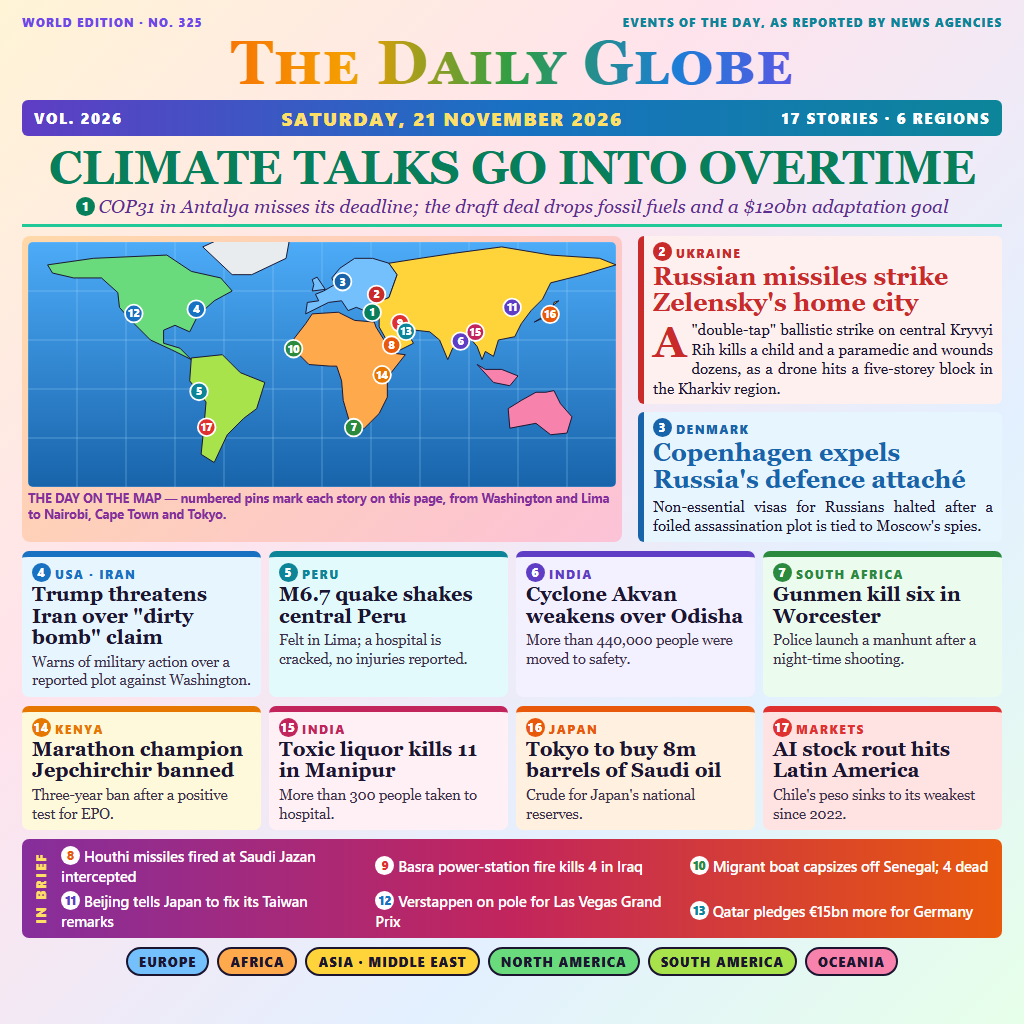
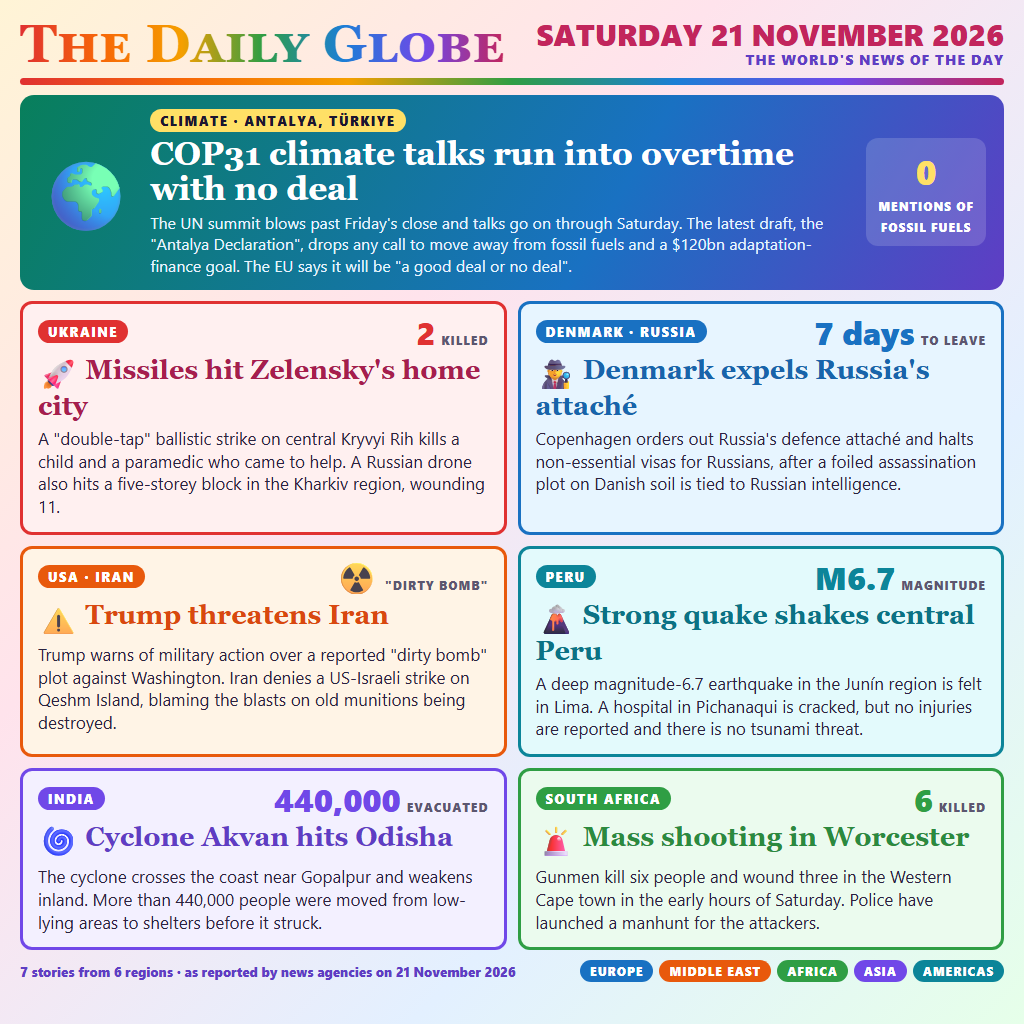
Colourful edition with seven fuller stories and key figures

diff --git a/src/page.html b/src/page.html
@@ -3,119 +3,102 @@
 <style>
 *{box-sizing:border-box;margin:0;padding:0}
 html,body{width:1024px;height:1024px;overflow:hidden}
-body{color:#1b1530;font-family:Georgia,"Times New Roman",serif;padding:14px 22px 0;
+body{color:#1b1530;font-family:"Segoe UI",Arial,sans-serif;padding:16px 20px 0;
   background:linear-gradient(135deg,#fff4d6 0%,#ffe3ec 35%,#e3f0ff 70%,#e6ffe9 100%)}
-.ears{display:flex;justify-content:space-between;font:800 12px "Segoe UI",Arial,sans-serif;letter-spacing:1px;text-transform:uppercase}
-.ears span:first-child{color:#7048e8}.ears span:last-child{color:#0c8599}
-.mast{text-align:center;font-weight:700;font-size:70px;letter-spacing:1px;line-height:1;margin-top:2px;font-variant:small-caps;font-size:62px;
+header{display:flex;justify-content:space-between;align-items:center}
+.mast{font-family:Georgia,"Times New Roman",serif;font-weight:700;font-size:54px;line-height:1;font-variant:small-caps;letter-spacing:.5px;
   background:linear-gradient(90deg,#e03131,#f76707,#f59f00,#2f9e44,#1c7ed6,#7048e8,#c2255c);-webkit-background-clip:text;background-clip:text;color:transparent}
-.dateline{margin-top:6px;border-radius:6px;display:flex;justify-content:space-between;align-items:center;padding:5px 12px;font:800 15px "Segoe UI",Arial,sans-serif;letter-spacing:1.5px;text-transform:uppercase;color:#fff;
-  background:linear-gradient(90deg,#5f3dc4,#1971c2,#0c8599)}
-.dateline .d{color:#ffe066;font-size:19px}
-.banner{margin-top:8px;font-weight:700;font-size:47px;line-height:1.02;letter-spacing:-.5px;text-align:center;color:#087f5b}
-.deck{text-align:center;font-style:italic;font-size:19px;color:#5c2d91;margin-top:4px;padding-bottom:7px;border-bottom:3px solid #20c997}
-.row{display:grid;grid-template-columns:600px 1fr;gap:16px;margin-top:9px}
-figure{border-radius:8px;background:linear-gradient(135deg,#ffd8a8,#fcc2d7);padding:6px}
-figure svg{display:block;width:100%;height:auto;border-radius:5px}
-figcaption{font:700 12.5px "Segoe UI",Arial,sans-serif;color:#862e9c;margin-top:4px;line-height:1.25}
-.side h2{font-size:25px;line-height:1.05;font-weight:700;color:var(--c)}
-.side .blk{--c:#c92a2a;background:#fff0f0;border-left:6px solid var(--c);border-radius:6px;padding:6px 9px}
-.side .blk+.blk{--c:#1864ab;background:#e7f5ff;margin-top:8px}
-.kicker{font:900 12px "Segoe UI",Arial,sans-serif;letter-spacing:1.5px;text-transform:uppercase;color:var(--c);display:block;margin-bottom:2px}
-.side p{font-size:15px;line-height:1.3;margin-top:5px;text-align:justify}
-.side .blk:first-child p::first-letter{float:left;font-size:44px;line-height:.9;font-weight:700;margin:3px 5px 0 0;color:#c92a2a}
-.n{display:inline-flex;align-items:center;justify-content:center;width:19px;height:19px;border-radius:50%;background:var(--c,#c92a2a);color:#fff;font:800 11.5px "Segoe UI",Arial,sans-serif;vertical-align:2px;margin-right:4px}
-.cols{display:grid;grid-template-columns:repeat(4,1fr);gap:8px;margin-top:9px}
-.story{padding:6px 10px 7px;border-radius:7px;border-top:6px solid var(--c);background:var(--t)}
-.story h3{font-size:20px;line-height:1.08;font-weight:700;color:#1b1530}
-.story p{font-size:14.5px;line-height:1.28;margin-top:4px;color:#3b2f4a}
-.brief{border-radius:7px;margin-top:9px;padding:7px 10px;display:grid;grid-template-columns:auto 1fr 1fr 1fr;gap:5px 12px;font:600 14.5px "Segoe UI",Arial,sans-serif;align-items:center;color:#fff;
-  background:linear-gradient(90deg,#862e9c,#c2255c,#e8590c)}
-.brief b.h{grid-row:1/3;grid-column:1;font:900 13px "Segoe UI",Arial,sans-serif;letter-spacing:2px;writing-mode:vertical-rl;transform:rotate(180deg);color:#ffe066}
-.brief .n{background:#fff;color:var(--c)}
-.legend{margin-top:9px;display:flex;justify-content:center;gap:8px;font:800 13px "Segoe UI",Arial,sans-serif;letter-spacing:1px;text-transform:uppercase}
-.legend span{padding:4px 11px;border-radius:20px;color:#1b1530;border:2px solid #1b1530}
-.red{--c:#e03131;--t:#ffe3e3}.ora{--c:#e8590c;--t:#fff0e0}.yel{--c:#e67700;--t:#fff9db}.grn{--c:#2b8a3e;--t:#ebfbee}
-.tea{--c:#0c8599;--t:#e3fafc}.blu{--c:#1971c2;--t:#e7f5ff}.ind{--c:#5f3dc4;--t:#f3f0ff}.pin{--c:#c2255c;--t:#fff0f6}
+.date{text-align:right;font-weight:900;font-size:30px;line-height:1;color:#c2255c}
+.date small{display:block;font-size:14px;color:#5f3dc4;font-weight:800;letter-spacing:1px;text-transform:uppercase;margin-top:4px}
+.bar{height:7px;border-radius:4px;margin-top:8px;background:linear-gradient(90deg,#e03131,#f76707,#f59f00,#2f9e44,#1c7ed6,#7048e8,#c2255c)}
+.card{border-radius:12px;padding:12px 15px 14px;background:var(--t);border:3px solid var(--c);display:grid;grid-template-columns:1fr auto;column-gap:10px;align-content:start}
+.kick{display:inline-block;font-weight:900;font-size:13px;letter-spacing:1.5px;text-transform:uppercase;color:#fff;background:var(--c);padding:3px 10px;border-radius:20px}
+.card .kick{grid-column:1;grid-row:1;justify-self:start;align-self:center}
+.card h2{grid-column:1/3;font-family:Georgia,"Times New Roman",serif;font-size:27px;line-height:1.08;margin-top:7px;color:var(--d)}
+.card p{grid-column:1/3;font-size:17px;line-height:1.33;margin-top:7px;color:#2b2240}
+.big{grid-column:2;grid-row:1;display:flex;align-items:baseline;gap:6px;font-weight:900;color:var(--c);line-height:1}
+.big b{font-size:32px}
+.big i{font-style:normal;font-size:12px;letter-spacing:1px;text-transform:uppercase;color:#5c5670}
+.lead{margin-top:10px;display:grid;grid-template-columns:auto 1fr auto;gap:16px;align-items:center;border-radius:14px;padding:14px 18px;color:#fff;
+  background:linear-gradient(120deg,#087f5b,#1971c2 60%,#5f3dc4)}
+.lead .ic{font-size:70px;line-height:1}
+.lead .kick{background:#ffe066;color:#1b1530}
+.lead h1{font-family:Georgia,"Times New Roman",serif;font-size:33px;line-height:1.05;margin-top:5px}
+.lead p{font-size:16px;line-height:1.32;margin-top:6px;color:#e7f5ff}
+.lead .num{text-align:center;background:rgba(255,255,255,.16);border-radius:12px;padding:10px 12px;font-weight:900}
+.lead .num b{display:block;font-size:34px;color:#ffe066}
+.lead .num i{font-style:normal;font-size:12px;letter-spacing:1px;text-transform:uppercase}
+.grid{display:grid;grid-template-columns:1fr 1fr;gap:11px;margin-top:11px}
+.card .ic{font-size:30px;margin-right:6px;vertical-align:-6px}
+.red{--c:#e03131;--t:#fff0f0;--d:#a61e4d}.blu{--c:#1971c2;--t:#e7f5ff;--d:#1864ab}.ora{--c:#e8590c;--t:#fff4e6;--d:#d9480f}
+.tea{--c:#0c8599;--t:#e3fafc;--d:#0b7285}.ind{--c:#7048e8;--t:#f3f0ff;--d:#5f3dc4}.grn{--c:#2f9e44;--t:#ebfbee;--d:#2b8a3e}
+footer{margin-top:10px;display:flex;justify-content:space-between;align-items:center;font-weight:800;font-size:13px;color:#5f3dc4}
+footer span.r{display:flex;gap:6px}
+footer span.r em{font-style:normal;color:#fff;padding:3px 10px;border-radius:20px;font-size:12px;letter-spacing:1px;text-transform:uppercase}
 </style></head>
 <body>
-<div class="ears"><span>World edition · No. 325</span><span>Events of the day, as reported by news agencies</span></div>
-<div class="mast">The Daily Globe</div>
-<div class="dateline"><span>Vol. 2026</span><span class="d">Saturday, 21 November 2026</span><span>17 stories · 6 regions</span></div>
+<header>
+  <div class="mast">The Daily Globe</div>
+  <div class="date">SATURDAY 21 NOVEMBER 2026<small>The world's news of the day</small></div>
+</header>
+<div class="bar"></div>
 
-<div class="banner">CLIMATE TALKS GO INTO OVERTIME</div>
-<div class="deck"><span class="n" style="--c:#087f5b">1</span>COP31 in Antalya misses its deadline; the draft deal drops fossil fuels and a $120bn adaptation goal</div>
+<div class="lead">
+  <div class="ic">🌍</div>
+  <div>
+    <span class="kick">Climate · Antalya, Türkiye</span>
+    <h1>COP31 climate talks run into overtime with no deal</h1>
+    <p>The UN summit blows past Friday's close and talks go on through Saturday. The latest draft, the "Antalya Declaration", drops any call to move away from fossil fuels and a $120bn adaptation-finance goal. The EU says it will be "a good deal or no deal".</p>
+  </div>
+  <div class="num"><b>0</b><i>mentions of<br>fossil fuels</i></div>
+</div>
 
-<div class="row">
-  <figure>
-    <svg id="map" viewBox="0 0 360 150" xmlns="http://www.w3.org/2000/svg"></svg>
-    <figcaption>THE DAY ON THE MAP — numbered pins mark each story on this page, from Washington and Lima to Nairobi, Cape Town and Tokyo.</figcaption>
-  </figure>
-  <div class="side">
-    <div class="blk">
-      <span class="kicker"><span class="n">2</span>Ukraine</span>
-      <h2>Russian missiles strike Zelensky's home city</h2>
-      <p>A "double-tap" ballistic strike on central Kryvyi Rih kills a child and a paramedic and wounds dozens, as a drone hits a five-storey block in the Kharkiv region.</p>
-    </div>
-    <div class="blk">
-      <span class="kicker"><span class="n">3</span>Denmark</span>
-      <h2>Copenhagen expels Russia's defence attaché</h2>
-      <p>Non-essential visas for Russians halted after a foiled assassination plot is tied to Moscow's spies.</p>
-    </div>
+<div class="grid">
+  <div class="card red">
+    <div class="big"><b>2</b><i>killed</i></div>
+    <span class="kick">Ukraine</span>
+    <h2><span class="ic">🚀</span>Missiles hit Zelensky's home city</h2>
+    <p>A "double-tap" ballistic strike on central Kryvyi Rih kills a child and a paramedic who came to help. A Russian drone also hits a five-storey block in the Kharkiv region, wounding 11.</p>
+  </div>
+
+  <div class="card blu">
+    <div class="big"><b>7 days</b><i>to leave</i></div>
+    <span class="kick">Denmark · Russia</span>
+    <h2><span class="ic">🕵</span>Denmark expels Russia's attaché</h2>
+    <p>Copenhagen orders out Russia's defence attaché and halts non-essential visas for Russians, after a foiled assassination plot on Danish soil is tied to Russian intelligence.</p>
+  </div>
+
+  <div class="card ora">
+    <div class="big"><b>☢</b><i>"dirty bomb"</i></div>
+    <span class="kick">USA · Iran</span>
+    <h2><span class="ic">⚠</span>Trump threatens Iran</h2>
+    <p>Trump warns of military action over a reported "dirty bomb" plot against Washington. Iran denies a US-Israeli strike on Qeshm Island, blaming the blasts on old munitions being destroyed.</p>
+  </div>
+
+  <div class="card tea">
+    <div class="big"><b>M6.7</b><i>magnitude</i></div>
+    <span class="kick">Peru</span>
+    <h2><span class="ic">🌋</span>Strong quake shakes central Peru</h2>
+    <p>A deep magnitude-6.7 earthquake in the Junín region is felt in Lima. A hospital in Pichanaqui is cracked, but no injuries are reported and there is no tsunami threat.</p>
+  </div>
+
+  <div class="card ind">
+    <div class="big"><b>440,000</b><i>evacuated</i></div>
+    <span class="kick">India</span>
+    <h2><span class="ic">🌀</span>Cyclone Akvan hits Odisha</h2>
+    <p>The cyclone crosses the coast near Gopalpur and weakens inland. More than 440,000 people were moved from low-lying areas to shelters before it struck.</p>
+  </div>
+
+  <div class="card grn">
+    <div class="big"><b>6</b><i>killed</i></div>
+    <span class="kick">South Africa</span>
+    <h2><span class="ic">🚨</span>Mass shooting in Worcester</h2>
+    <p>Gunmen kill six people and wound three in the Western Cape town in the early hours of Saturday. Police have launched a manhunt for the attackers.</p>
   </div>
 </div>
 
-<div class="cols">
-  <div class="story blu"><span class="kicker"><span class="n">4</span>USA · Iran</span><h3>Trump threatens Iran over "dirty bomb" claim</h3><p>Warns of military action over a reported plot against Washington.</p></div>
-  <div class="story tea"><span class="kicker"><span class="n">5</span>Peru</span><h3>M6.7 quake shakes central Peru</h3><p>Felt in Lima; a hospital is cracked, no injuries reported.</p></div>
-  <div class="story ind"><span class="kicker"><span class="n">6</span>India</span><h3>Cyclone Akvan weakens over Odisha</h3><p>More than 440,000 people were moved to safety.</p></div>
-  <div class="story grn"><span class="kicker"><span class="n">7</span>South Africa</span><h3>Gunmen kill six in Worcester</h3><p>Police launch a manhunt after a night-time shooting.</p></div>
-</div>
-
-<div class="cols">
-  <div class="story yel"><span class="kicker"><span class="n">14</span>Kenya</span><h3>Marathon champion Jepchirchir banned</h3><p>Three-year ban after a positive test for EPO.</p></div>
-  <div class="story pin"><span class="kicker"><span class="n">15</span>India</span><h3>Toxic liquor kills 11 in Manipur</h3><p>More than 300 people taken to hospital.</p></div>
-  <div class="story ora"><span class="kicker"><span class="n">16</span>Japan</span><h3>Tokyo to buy 8m barrels of Saudi oil</h3><p>Crude for Japan's national reserves.</p></div>
-  <div class="story red"><span class="kicker"><span class="n">17</span>Markets</span><h3>AI stock rout hits Latin America</h3><p>Chile's peso sinks to its weakest since 2022.</p></div>
-</div>
-
-<div class="brief">
-  <b class="h">IN BRIEF</b>
-  <span class="ora"><span class="n">8</span>Houthi missiles fired at Saudi Jazan intercepted</span>
-  <span class="red"><span class="n">9</span>Basra power-station fire kills 4 in Iraq</span>
-  <span class="grn"><span class="n">10</span>Migrant boat capsizes off Senegal; 4 dead</span>
-  <span class="ind"><span class="n">11</span>Beijing tells Japan to fix its Taiwan remarks</span>
-  <span class="blu"><span class="n">12</span>Verstappen on pole for Las Vegas Grand Prix</span>
-  <span class="tea"><span class="n">13</span>Qatar pledges €15bn more for Germany</span>
-</div>
-
-<div class="legend">
-  <span style="background:#74c0fc">Europe</span><span style="background:#ffa94d">Africa</span><span style="background:#ffd43b">Asia · Middle East</span><span style="background:#69db7c">North America</span><span style="background:#a9e34b">South America</span><span style="background:#f783ac">Oceania</span>
-</div>
-
-<script>
-const land = [
- ['#69db7c',[[-168,66],[-140,70],[-95,72],[-80,62],[-62,58],[-55,50],[-66,44],[-76,35],[-81,25],[-90,29],[-97,26],[-97,18],[-87,15],[-80,8],[-92,14],[-105,20],[-117,32],[-124,40],[-125,49],[-135,58],[-152,58],[-165,61]]],
- ['#e9ecef',[[-55,60],[-43,60],[-22,70],[-20,81],[-60,83],[-73,77]]],
- ['#a9e34b',[[-80,9],[-61,11],[-50,0],[-35,-6],[-40,-22],[-48,-28],[-58,-38],[-66,-55],[-74,-50],[-72,-30],[-71,-18],[-81,-5]]],
- ['#74c0fc',[[-10,36],[-9,43],[-2,44],[-4,48],[1,50],[8,54],[6,58],[11,64],[20,70],[31,70],[41,67],[46,60],[41,46],[29,41],[26,38],[21,40],[16,38],[12,44],[4,43]]],
- ['#74c0fc',[[-6,50],[2,51],[0,54],[-3,58.5],[-6,57],[-5,54]]],
- ['#ffa94d',[[-17,21],[-17,14],[-8,5],[5,4],[9,4],[12,-5],[13,-17],[18,-34],[26,-34],[35,-25],[40,-15],[40,-3],[51,11],[43,12],[33,28],[32,31],[20,32],[10,37],[-6,36],[-10,30]]],
- ['#ffd43b',[[29,41],[41,46],[46,60],[41,67],[60,70],[80,73],[110,77],[140,72],[170,70],[180,66],[160,60],[140,55],[135,45],[128,38],[122,30],[118,22],[108,20],[105,10],[100,13],[98,8],[95,16],[90,22],[80,15],[77,8],[72,20],[66,25],[57,26],[52,25],[56,18],[44,12],[35,28],[35,36]]],
- ['#ffd43b',[[130,31],[141,36],[142,43],[145,44],[140,40],[135,34]]],
- ['#f783ac',[[114,-22],[122,-17],[131,-12],[137,-12],[142,-11],[146,-19],[153,-27],[150,-37],[140,-38],[131,-31],[115,-34]]],
- ['#f783ac',[[95,5],[105,-6],[115,-8],[120,-2],[110,2],[100,2]]]
-];
-const pins = [[1,30.7,36.9,'#087f5b'],[2,33.4,47.9,'#c92a2a'],[3,12.6,55.7,'#1864ab'],[4,-77,38.9,'#1971c2'],[5,-75.3,-11.5,'#0c8599'],[6,84.8,19.3,'#5f3dc4'],[7,19.4,-33.6,'#2b8a3e'],[8,42.6,16.9,'#e8590c'],[9,47.8,30.5,'#e03131'],[10,-17.4,14.7,'#2b8a3e'],[11,116.4,39.9,'#5f3dc4'],[12,-115.2,36.2,'#1971c2'],[13,51.5,25.3,'#0c8599'],[14,36.8,-1.3,'#e67700'],[15,93.9,24.8,'#c2255c'],[16,139.7,35.7,'#e8590c'],[17,-70.6,-33.4,'#e03131']];
-const P = (lon, lat) => `${(lon + 180).toFixed(1)},${(80 - lat).toFixed(1)}`;
-let s = '<defs><linearGradient id="sea" x1="0" y1="0" x2="0" y2="1"><stop offset="0" stop-color="#4dabf7"/><stop offset="1" stop-color="#1864ab"/></linearGradient></defs><rect width="360" height="150" fill="url(#sea)"/>';
-for (let x = 0; x <= 360; x += 30) s += `<line x1="${x}" y1="0" x2="${x}" y2="150" stroke="#a5d8ff" stroke-width=".4" opacity=".6"/>`;
-for (let y = 0; y <= 150; y += 30) s += `<line x1="0" y1="${y}" x2="360" y2="${y}" stroke="#a5d8ff" stroke-width=".4" opacity=".6"/>`;
-for (const [fill, poly] of land) s += `<polygon points="${poly.map(([a, b]) => P(a, b)).join(' ')}" fill="${fill}" stroke="#1b1530" stroke-width=".6" stroke-linejoin="round"/>`;
-for (const [n, lon, lat, c] of pins) {
-  const [x, y] = P(lon, lat).split(',').map(Number);
-  s += `<circle cx="${x}" cy="${y}" r="5.4" fill="${c}" stroke="#fff" stroke-width="1.1"/><text x="${x}" y="${y + 2.4}" font-family="Segoe UI,Arial" font-weight="800" font-size="6.6" fill="#fff" text-anchor="middle">${n}</text>`;
-}
-document.getElementById('map').innerHTML = s;
-</script>
+<footer>
+  <span>7 stories from 6 regions · as reported by news agencies on 21 November 2026</span>
+  <span class="r"><em style="background:#1971c2">Europe</em><em style="background:#e8590c">Middle East</em><em style="background:#2f9e44">Africa</em><em style="background:#7048e8">Asia</em><em style="background:#0c8599">Americas</em></span>
+</footer>
 </body></html>
